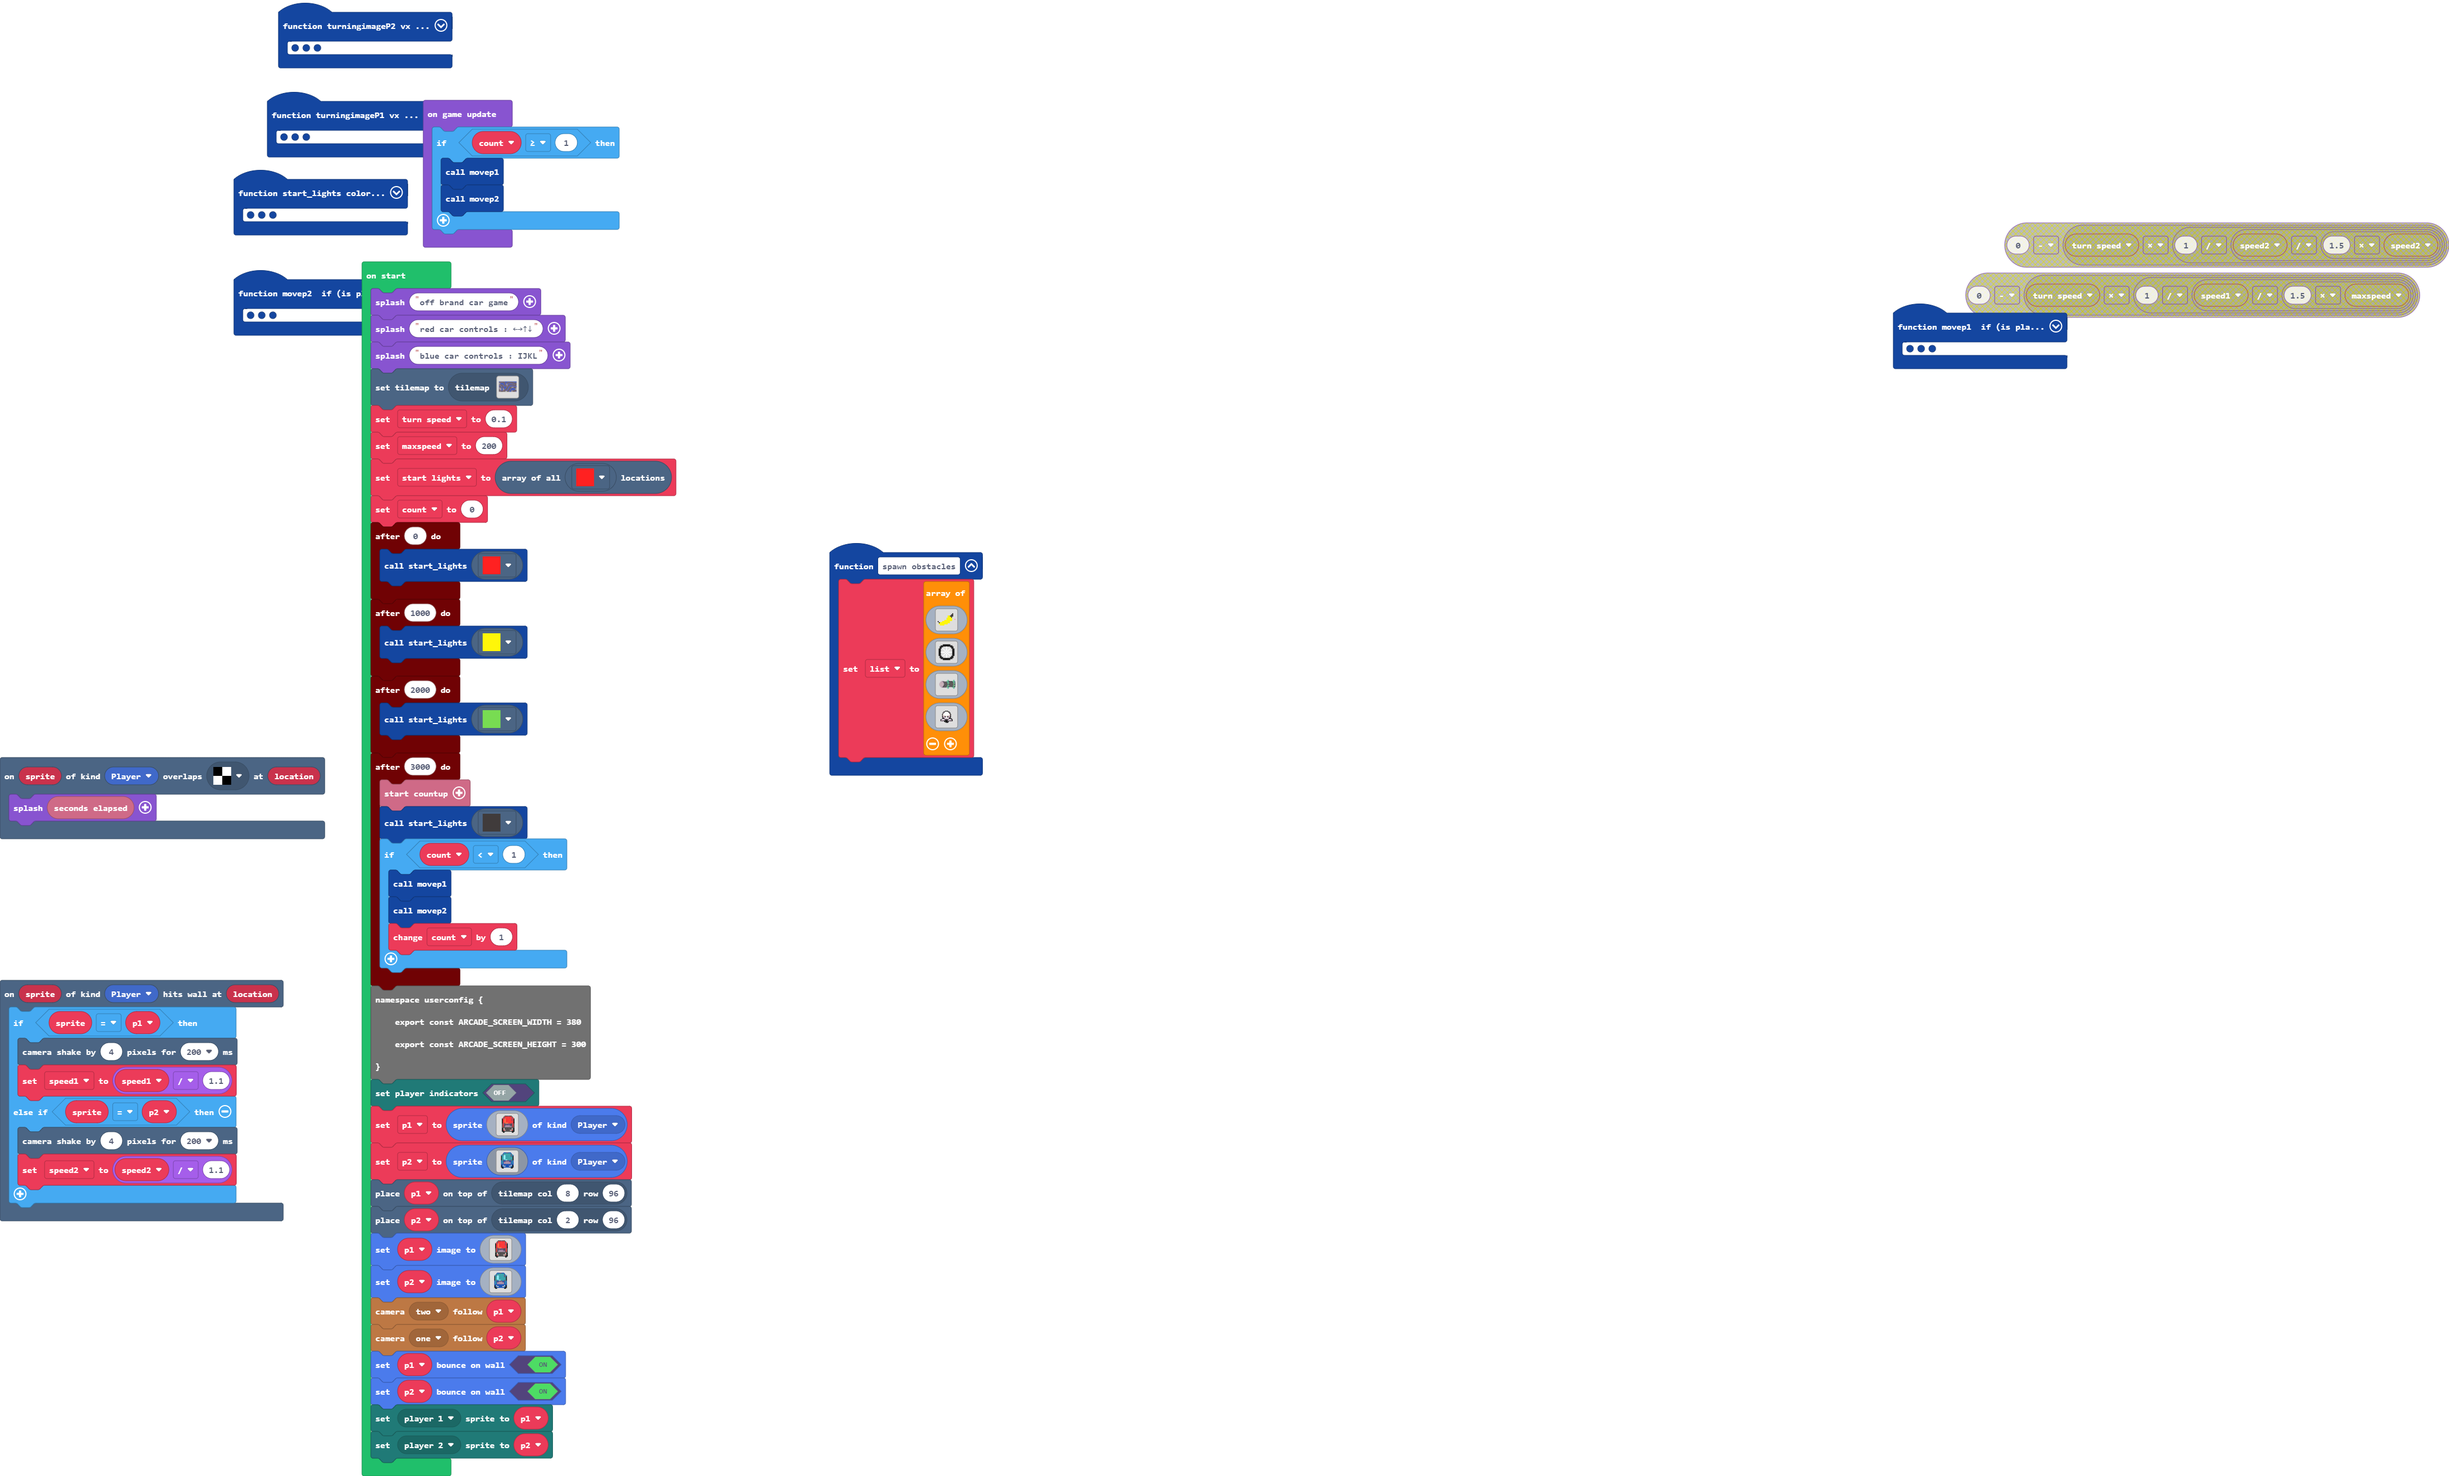
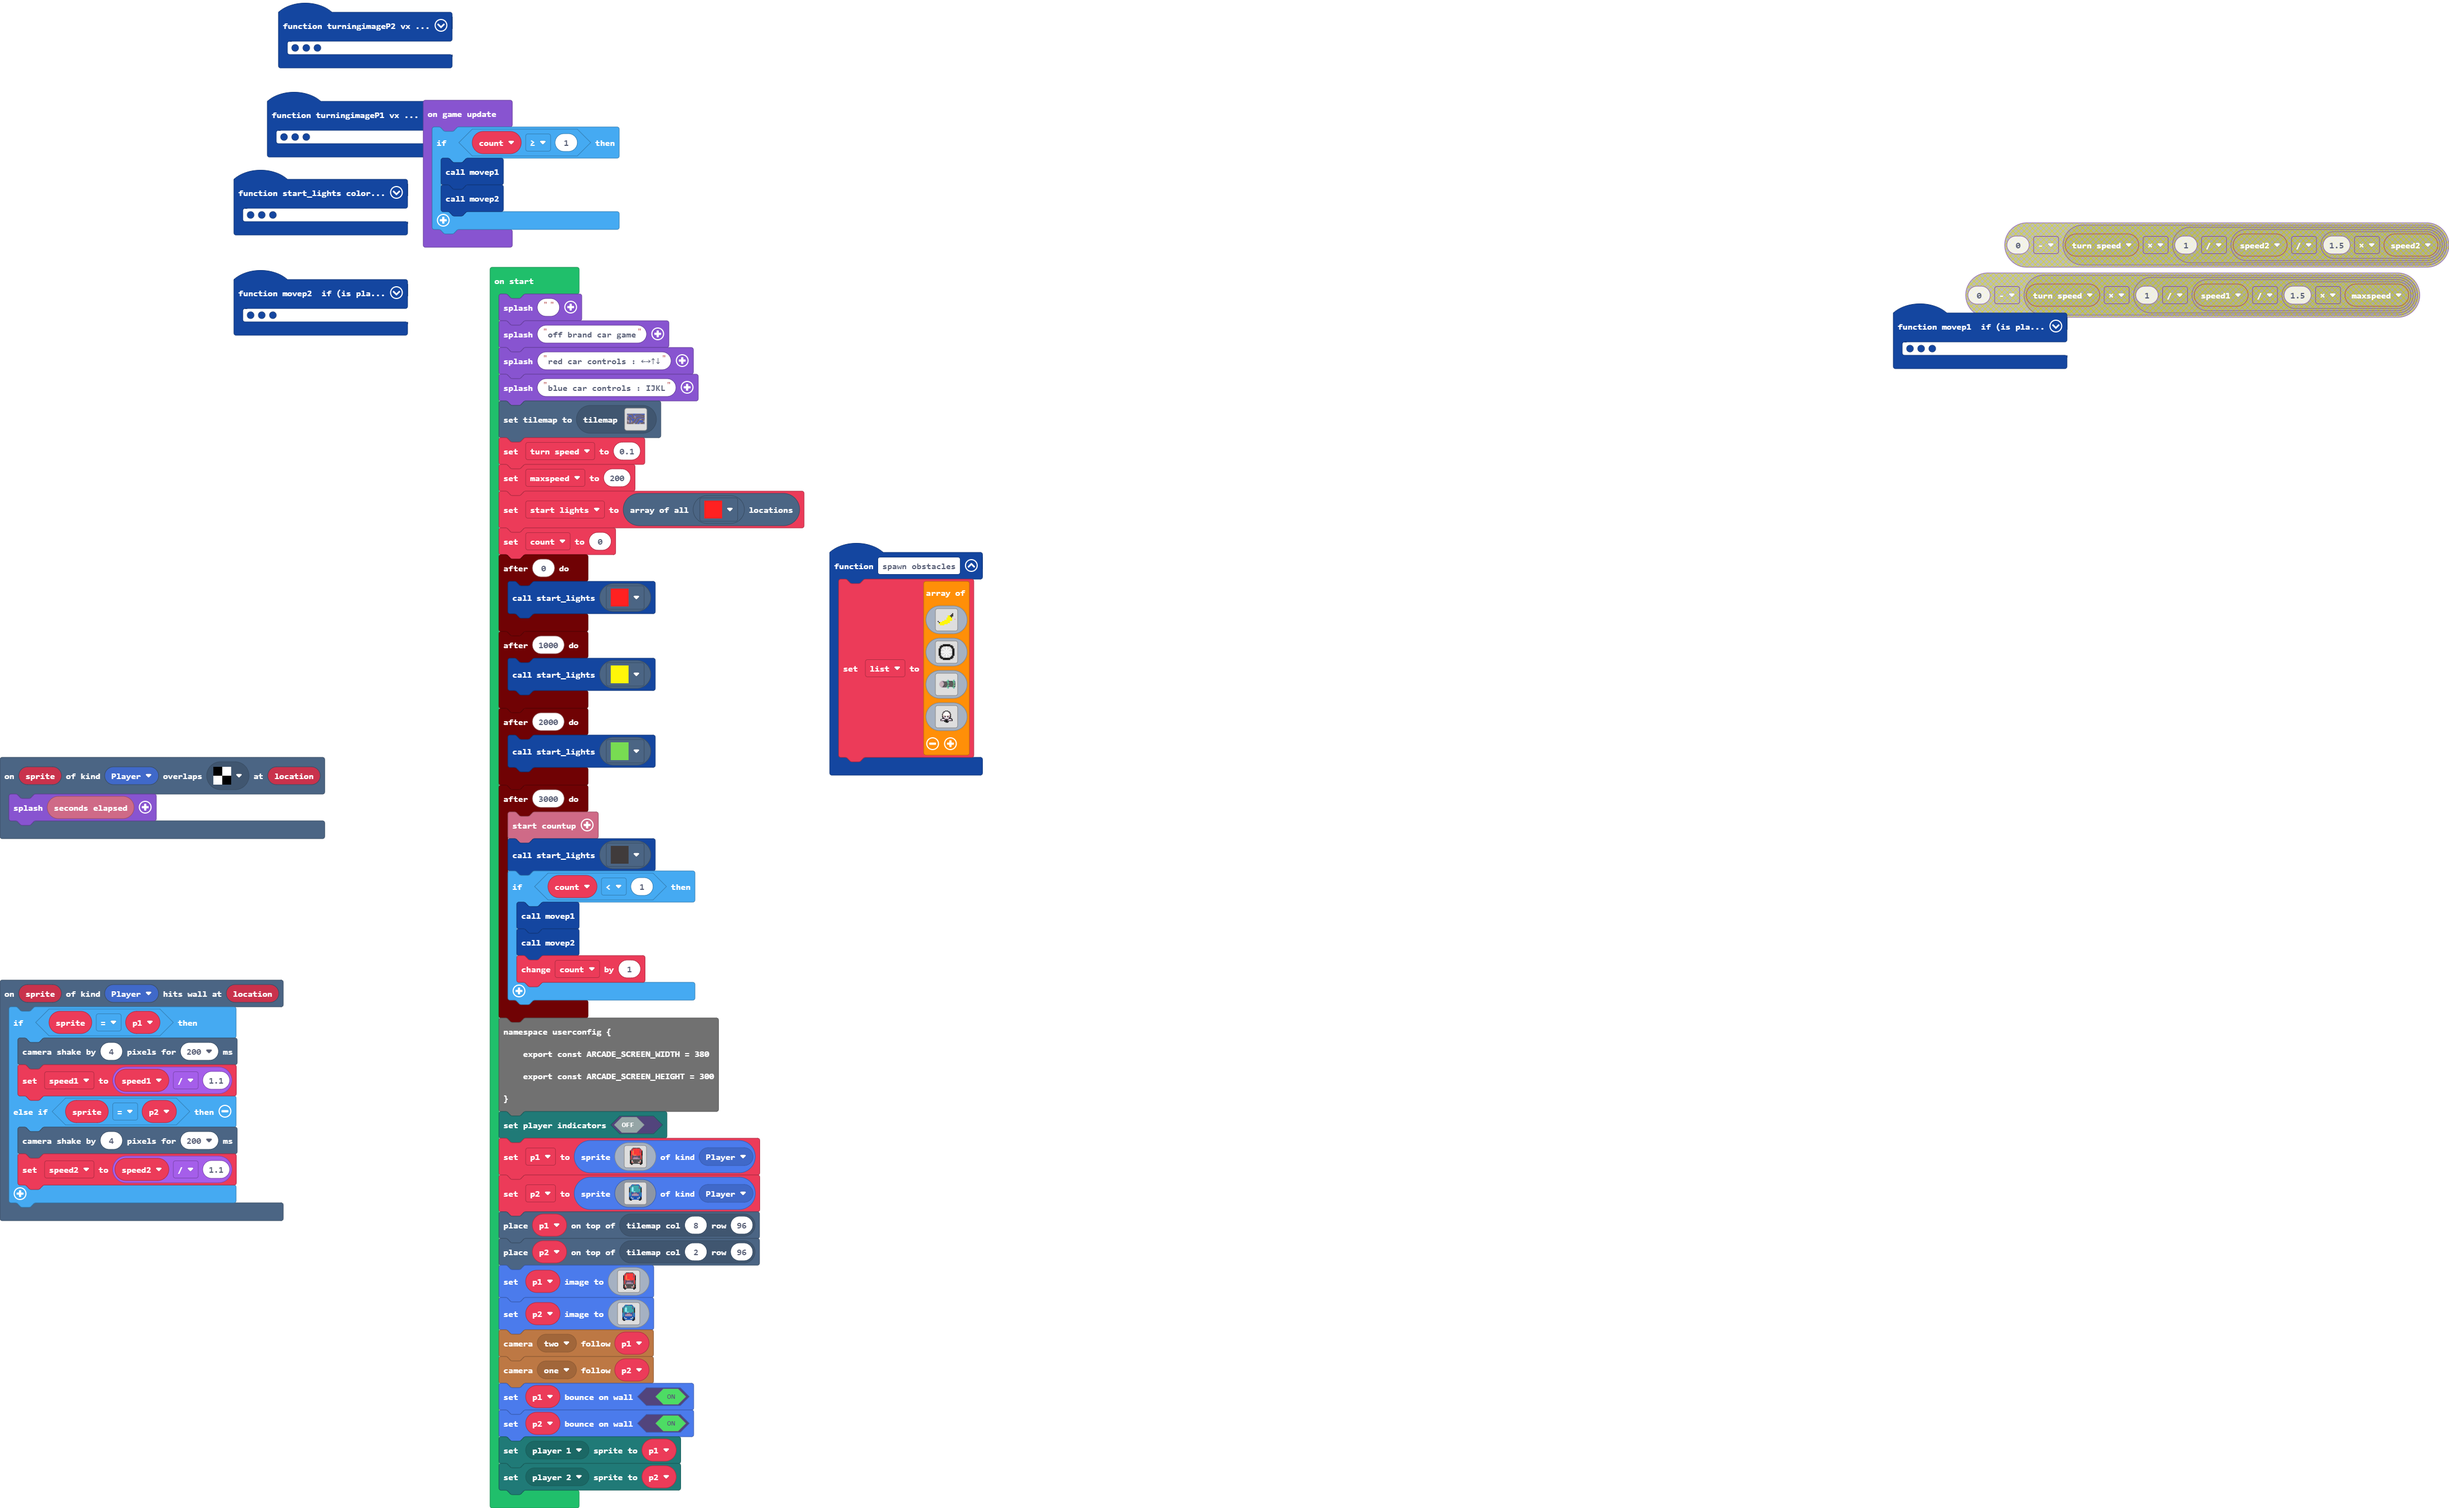
Update main.blocks, main.ts

Changed region(s): [[0.0, 0.0619, 0.405, 1.0], [0.7788, 0.1238, 1.0, 0.2475], [0.1246, 0.0, 0.1869, 0.0309]]

diff --git a/main.ts b/main.ts
@@ -335,6 +335,7 @@ let p2: Sprite = null
 let p1: Sprite = null
 let maxspeed = 0
 let turn_speed = 0
+game.splash("")
 game.splash("off brand car game")
 game.splash("red car controls : ←→↑↓")
 game.splash("blue car controls : IJKL")
